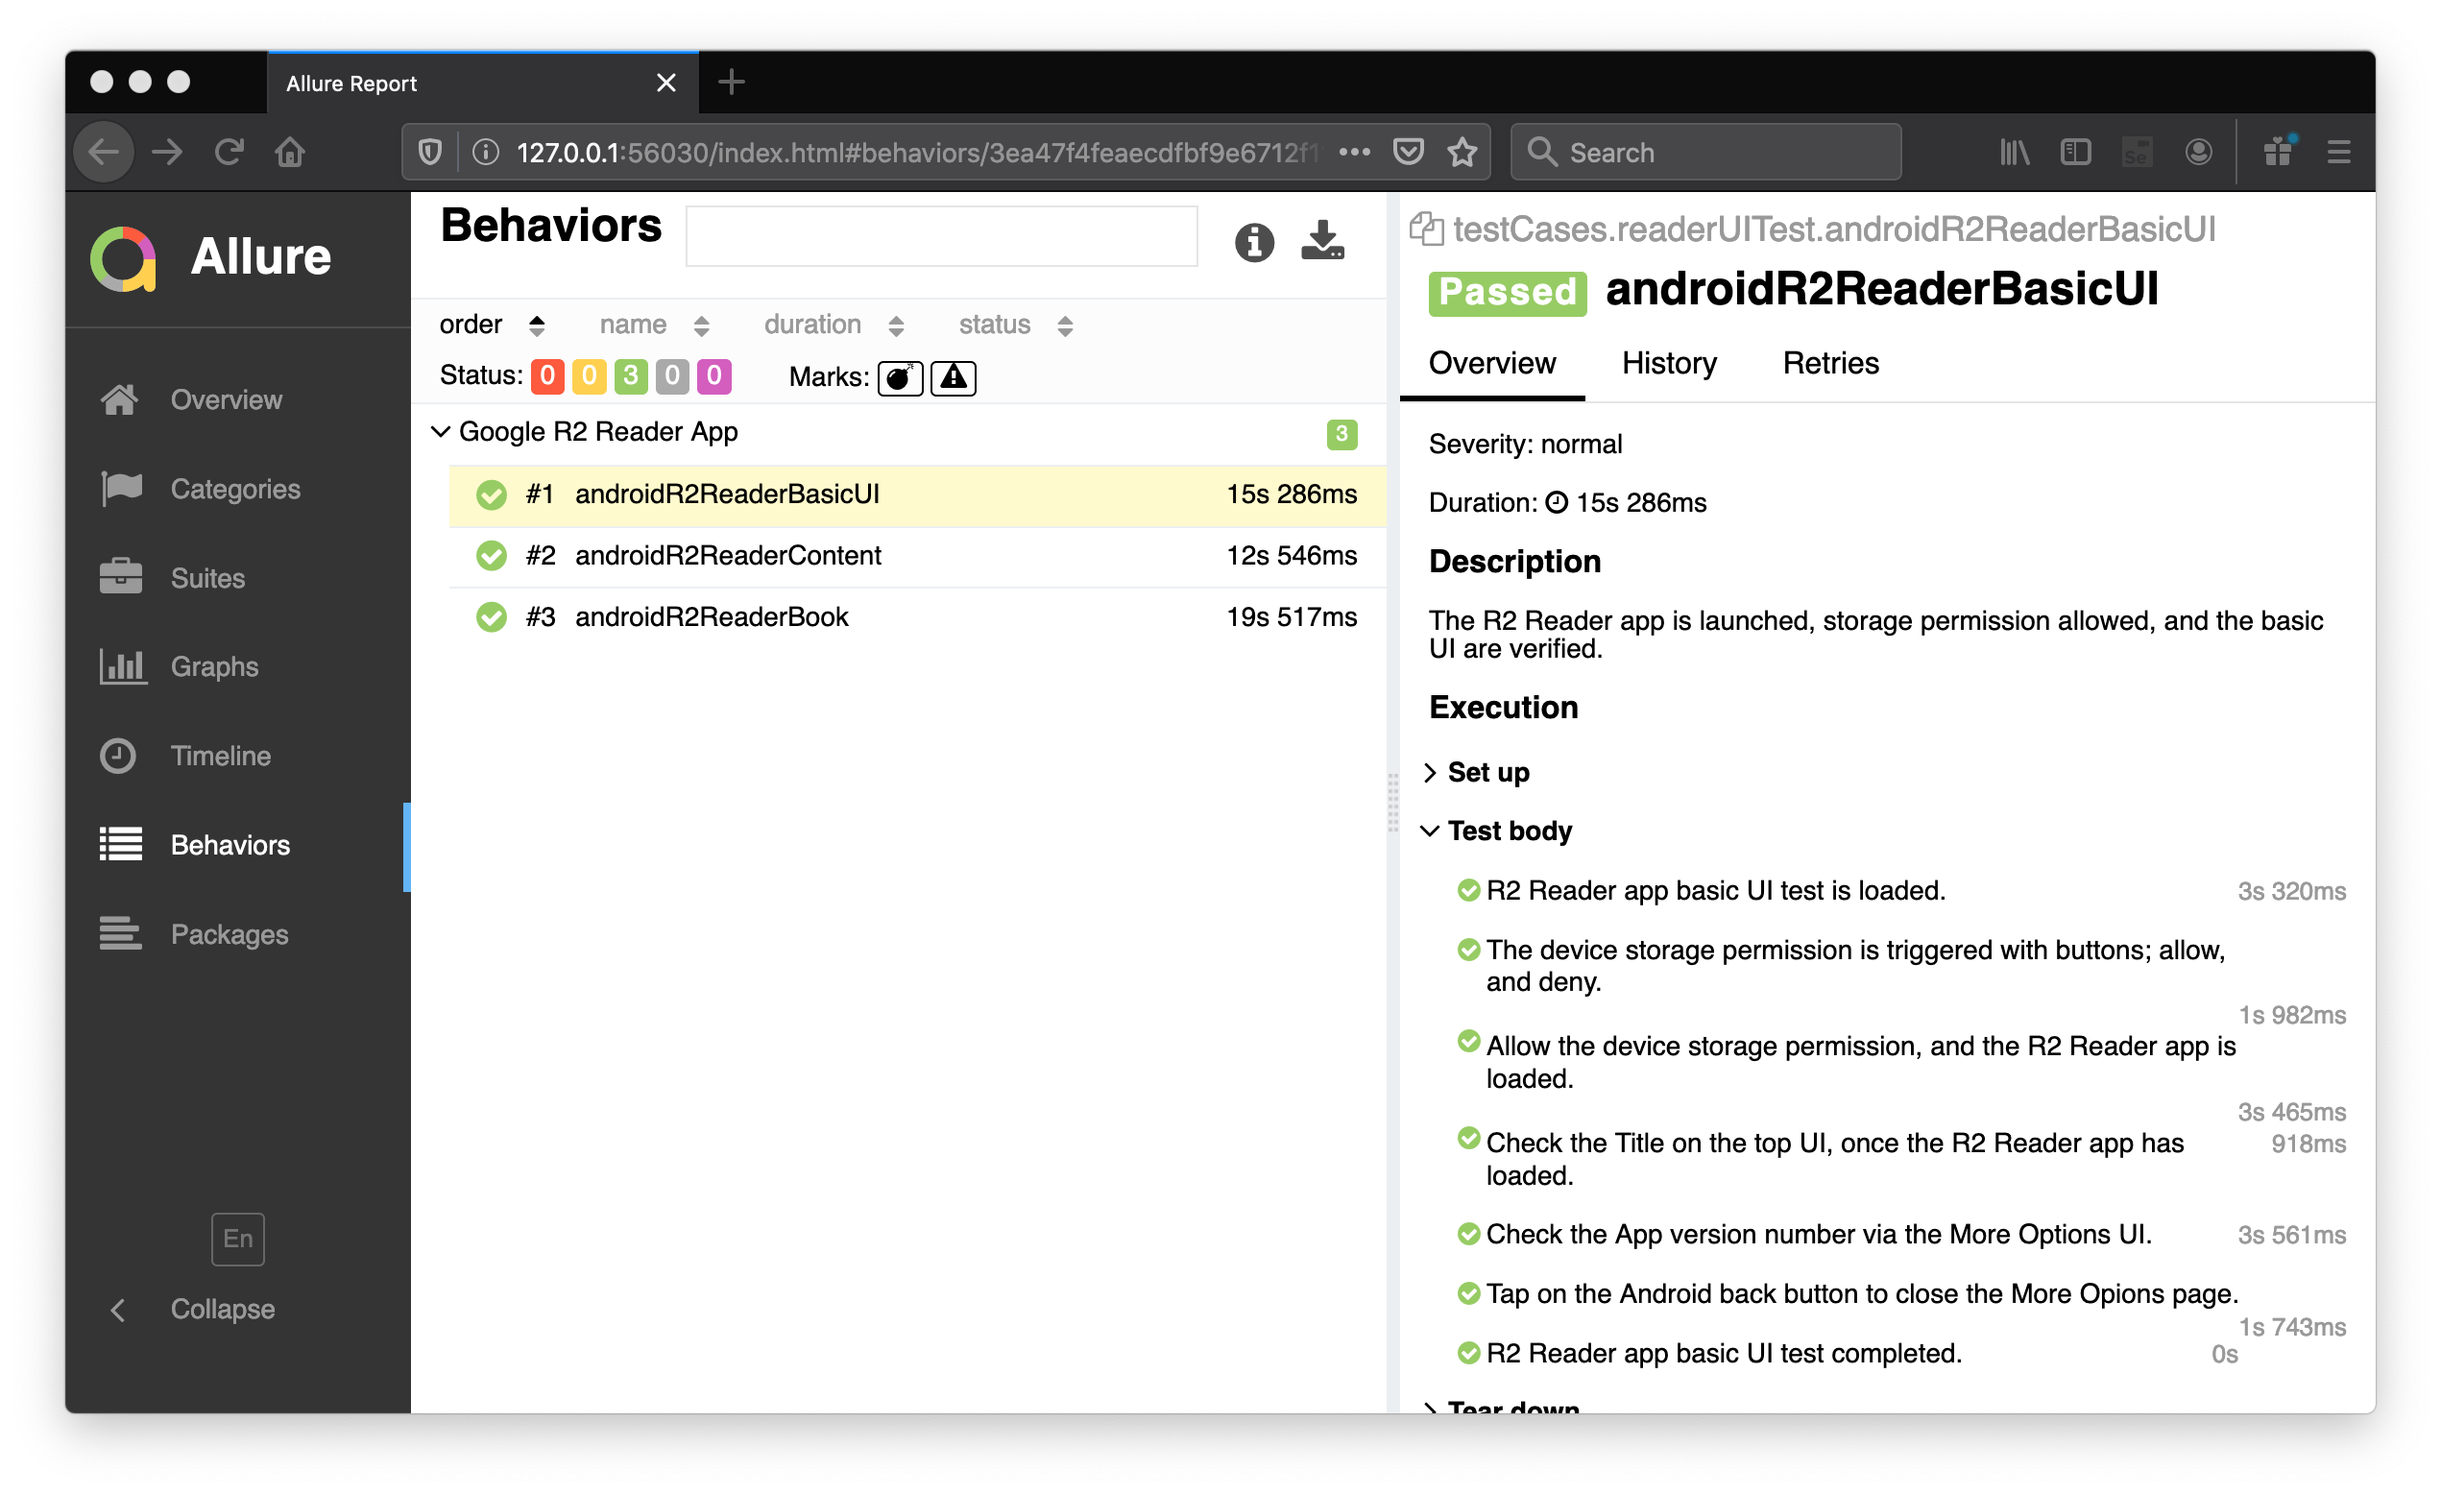
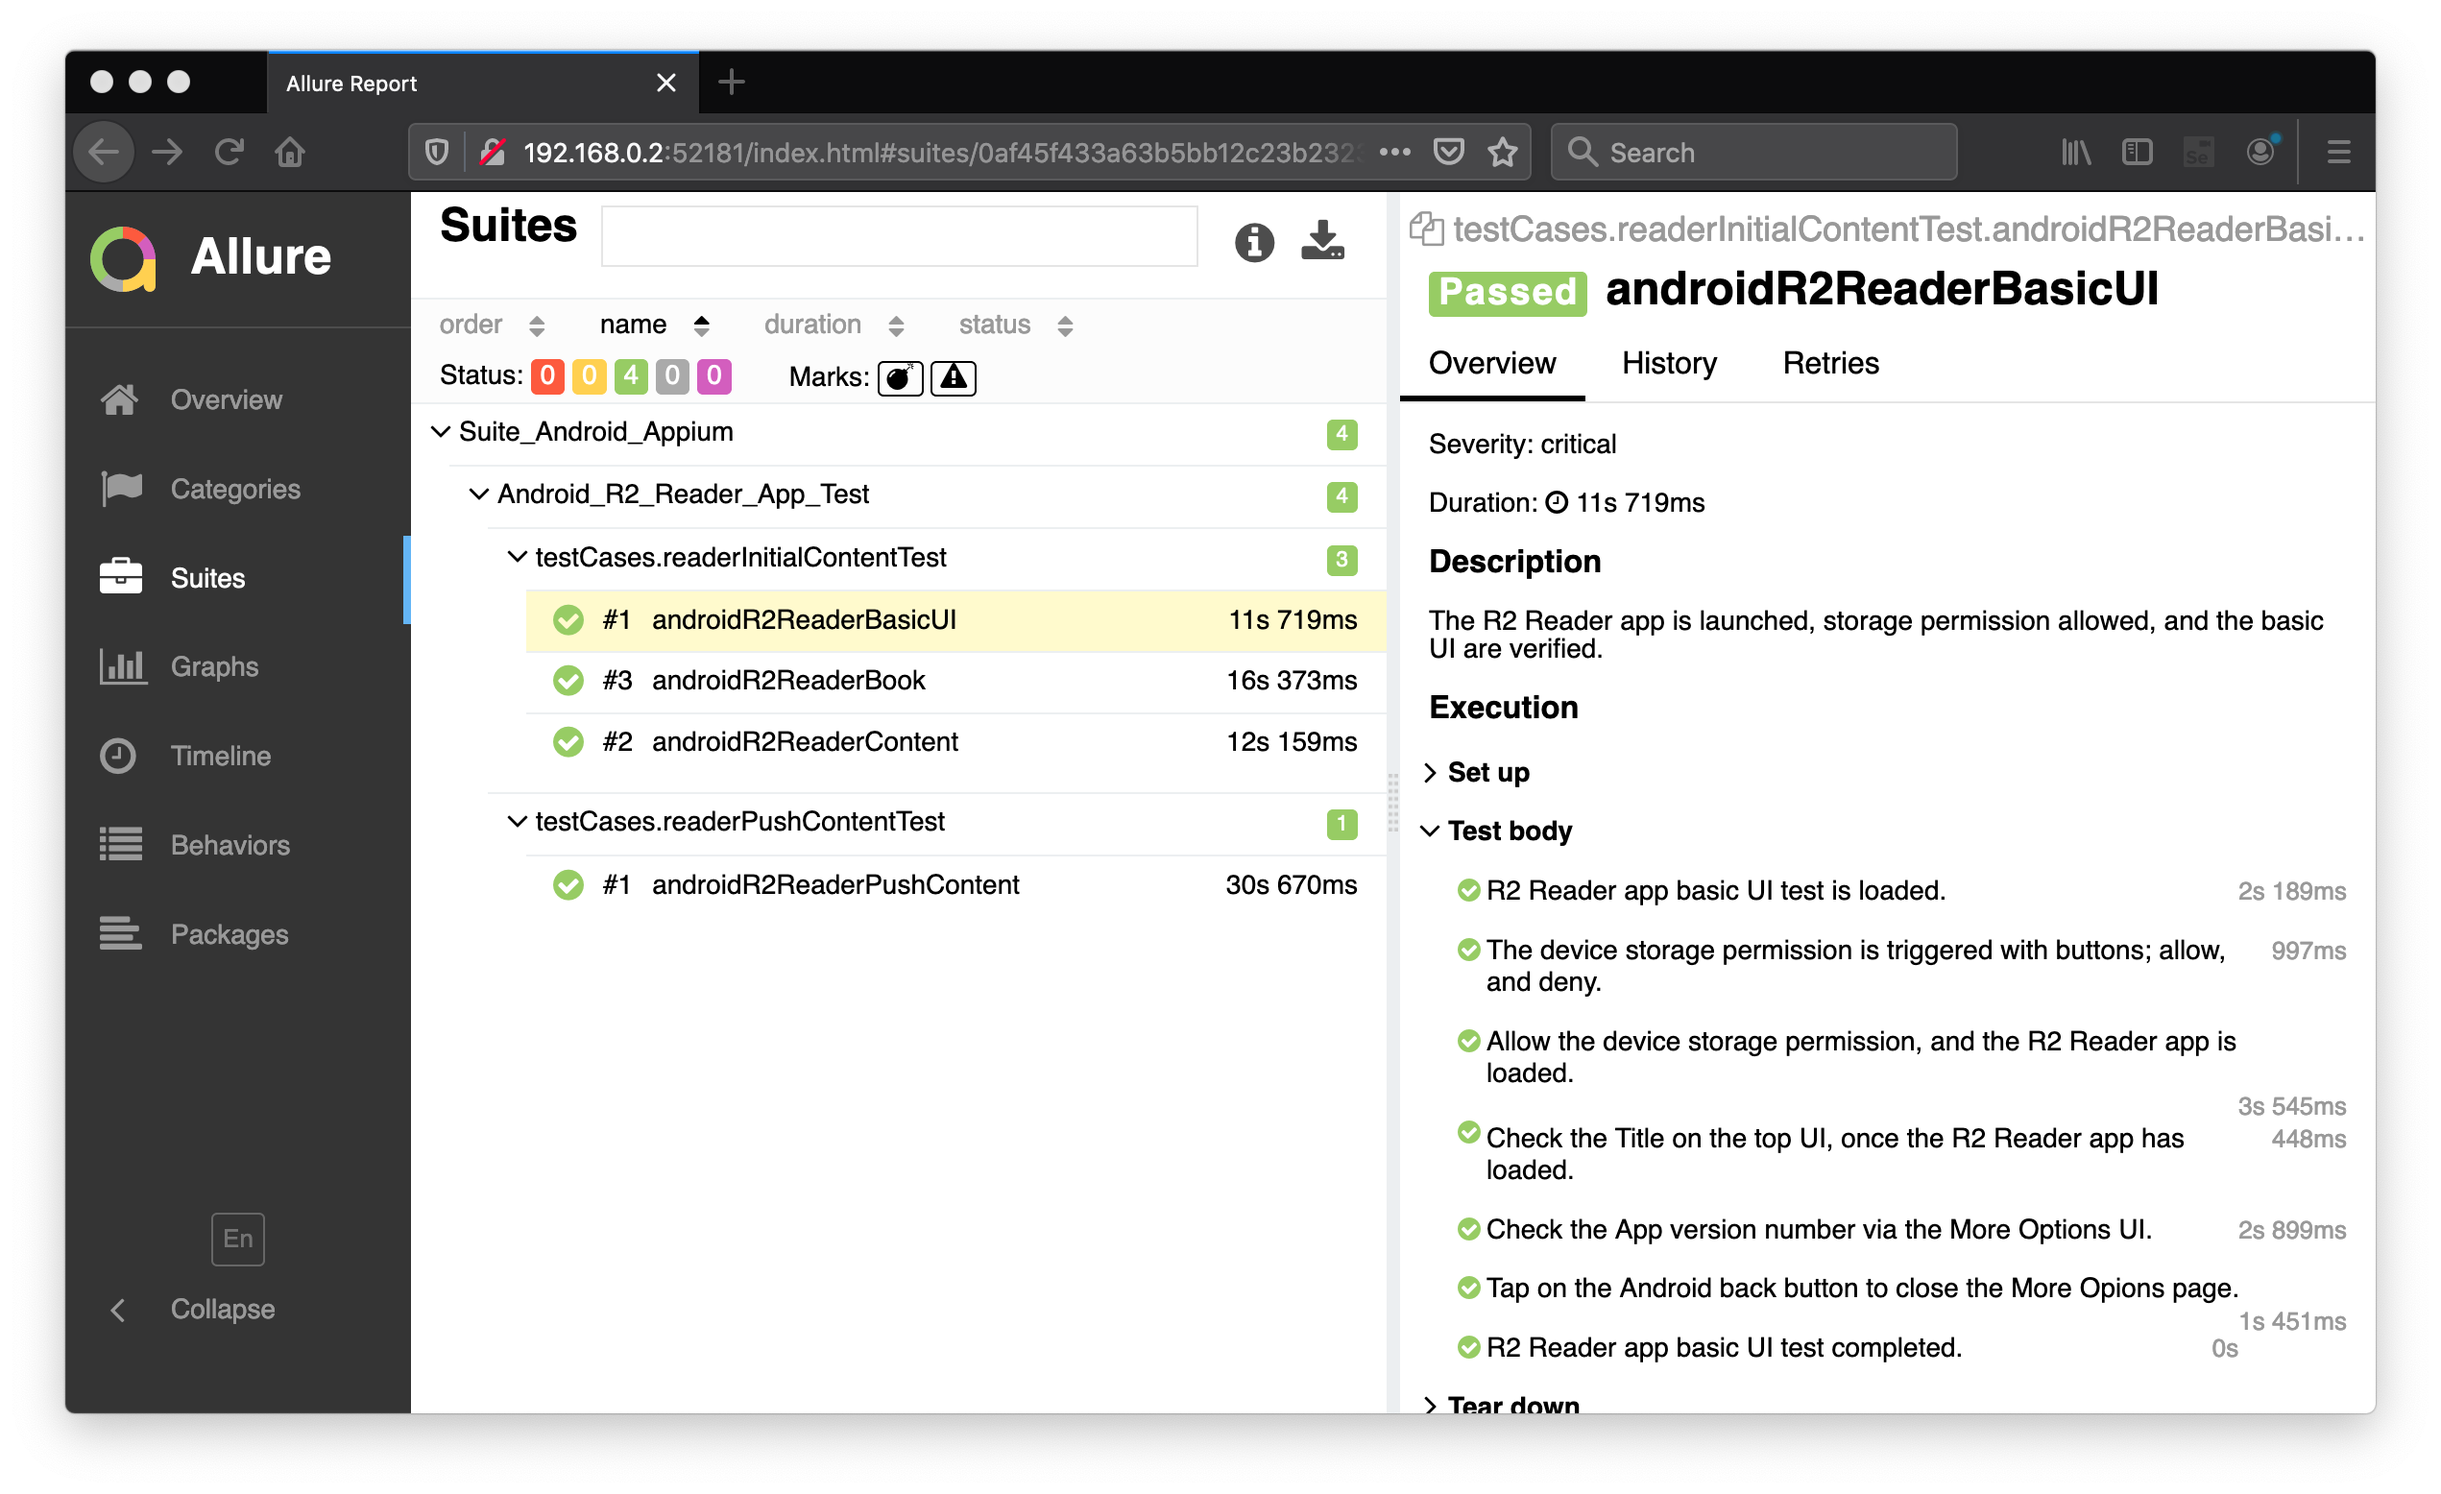
minor update to push file test case

diff --git a/androidR2Reader/src/main/java/mainPages/readerPushContentPage.java b/androidR2Reader/src/main/java/mainPages/readerPushContentPage.java
@@ -13,7 +13,7 @@ import io.qameta.allure.Step;
 public class readerPushContentPage extends basePage{
     
   //*********Web Page Class Constructor*********
-  public readerPushContentPage(AndroidDriver<MobileElement> mobiledriver) {
+  public readerPushContentPage(AndroidDriver<MobileElement>mobiledriver) {
 	basePage.mobiledriver = mobiledriver;
   }
 
@@ -80,6 +80,30 @@ public class readerPushContentPage extends basePage{
 	MobileElement new_content_added = mobiledriver.findElement(r2reader_new_content_added);
   	Assert.assertTrue(new_content_added.isDisplayed());
     System.out.println("Test Status: added content is verifed: " + capitaliseWord(mPushContent));
+  }
+  
+  @Step ("Search and click on the added content to open in the Readium eReader.")
+  public void click_on_the_added_content() {
+	searchAndClick(capitaliseWord(mPushContent));
+	MobileElement decor_content = mobiledriver.findElement(r2reader_resource_pager);
+  	Assert.assertTrue(decor_content.isDisplayed());
+    System.out.println("Test Status: added content is loaded");
+  }
+  
+  @Step ("Swipe a few pages and then swipe from bottom to open the eReader UI.")
+  public void swipe_few_pages_and_openui() {
+    swipe(DIRECTION.RIGHT);
+    swipe(DIRECTION.RIGHT);
+    swipe(DIRECTION.LEFT);
+    swipe(DIRECTION.OPENUI);
+  }
+  
+  @Step ("Close the Readium eReader and return to the app.")
+  public void close_readium_ereader() {
+    mobiledriver.navigate().back();
+    MobileElement r2reader_container = mobiledriver.findElement(r2reader_action_bar_container);
+  	Assert.assertTrue(r2reader_container.isDisplayed());
+    System.out.println("Test Status: closed the ereader");
   }
   
   @Step ("R2 Reader push content test is loaded.")

diff --git a/androidR2Reader/src/main/java/mainPages/readereBookPage.java b/androidR2Reader/src/main/java/mainPages/readereBookPage.java
@@ -11,7 +11,7 @@ import io.qameta.allure.Step;
 public class readereBookPage extends basePage{
     
   //*********Web Page Class Constructor*********
-  public readereBookPage(AndroidDriver<MobileElement> mobiledriver) {
+  public readereBookPage(AndroidDriver<MobileElement>mobiledriver) {
 	basePage.mobiledriver = mobiledriver;
   }
 
@@ -32,7 +32,7 @@ public class readereBookPage extends basePage{
   
   @Step ("Search and click on the first content to open in the Readium eReader.")
   public void click_on_the_first_content() {
-	searchAndClick(basePage.mAllContent[1]);
+	searchAndClick(mAllContent[1]);
 	MobileElement decor_content = mobiledriver.findElement(r2reader_resource_pager);
   	Assert.assertTrue(decor_content.isDisplayed());
     System.out.println("Test Status: first content is loaded");

diff --git a/androidR2Reader/src/test/java/testCases/readerPushContentTest.java b/androidR2Reader/src/test/java/testCases/readerPushContentTest.java
@@ -28,6 +28,9 @@ public class readerPushContentTest extends baseTest{
 		readerPushContentTest.search_the_pushed_content();
 		readerPushContentTest.add_pushed_content_return_to_the_app();
 		readerPushContentTest.verify_added_content();
+		readerPushContentTest.click_on_the_added_content();
+		readerPushContentTest.swipe_few_pages_and_openui();
+		readerPushContentTest.close_readium_ereader();
 		readerPushContentTest.afterTest();
     }
 }
